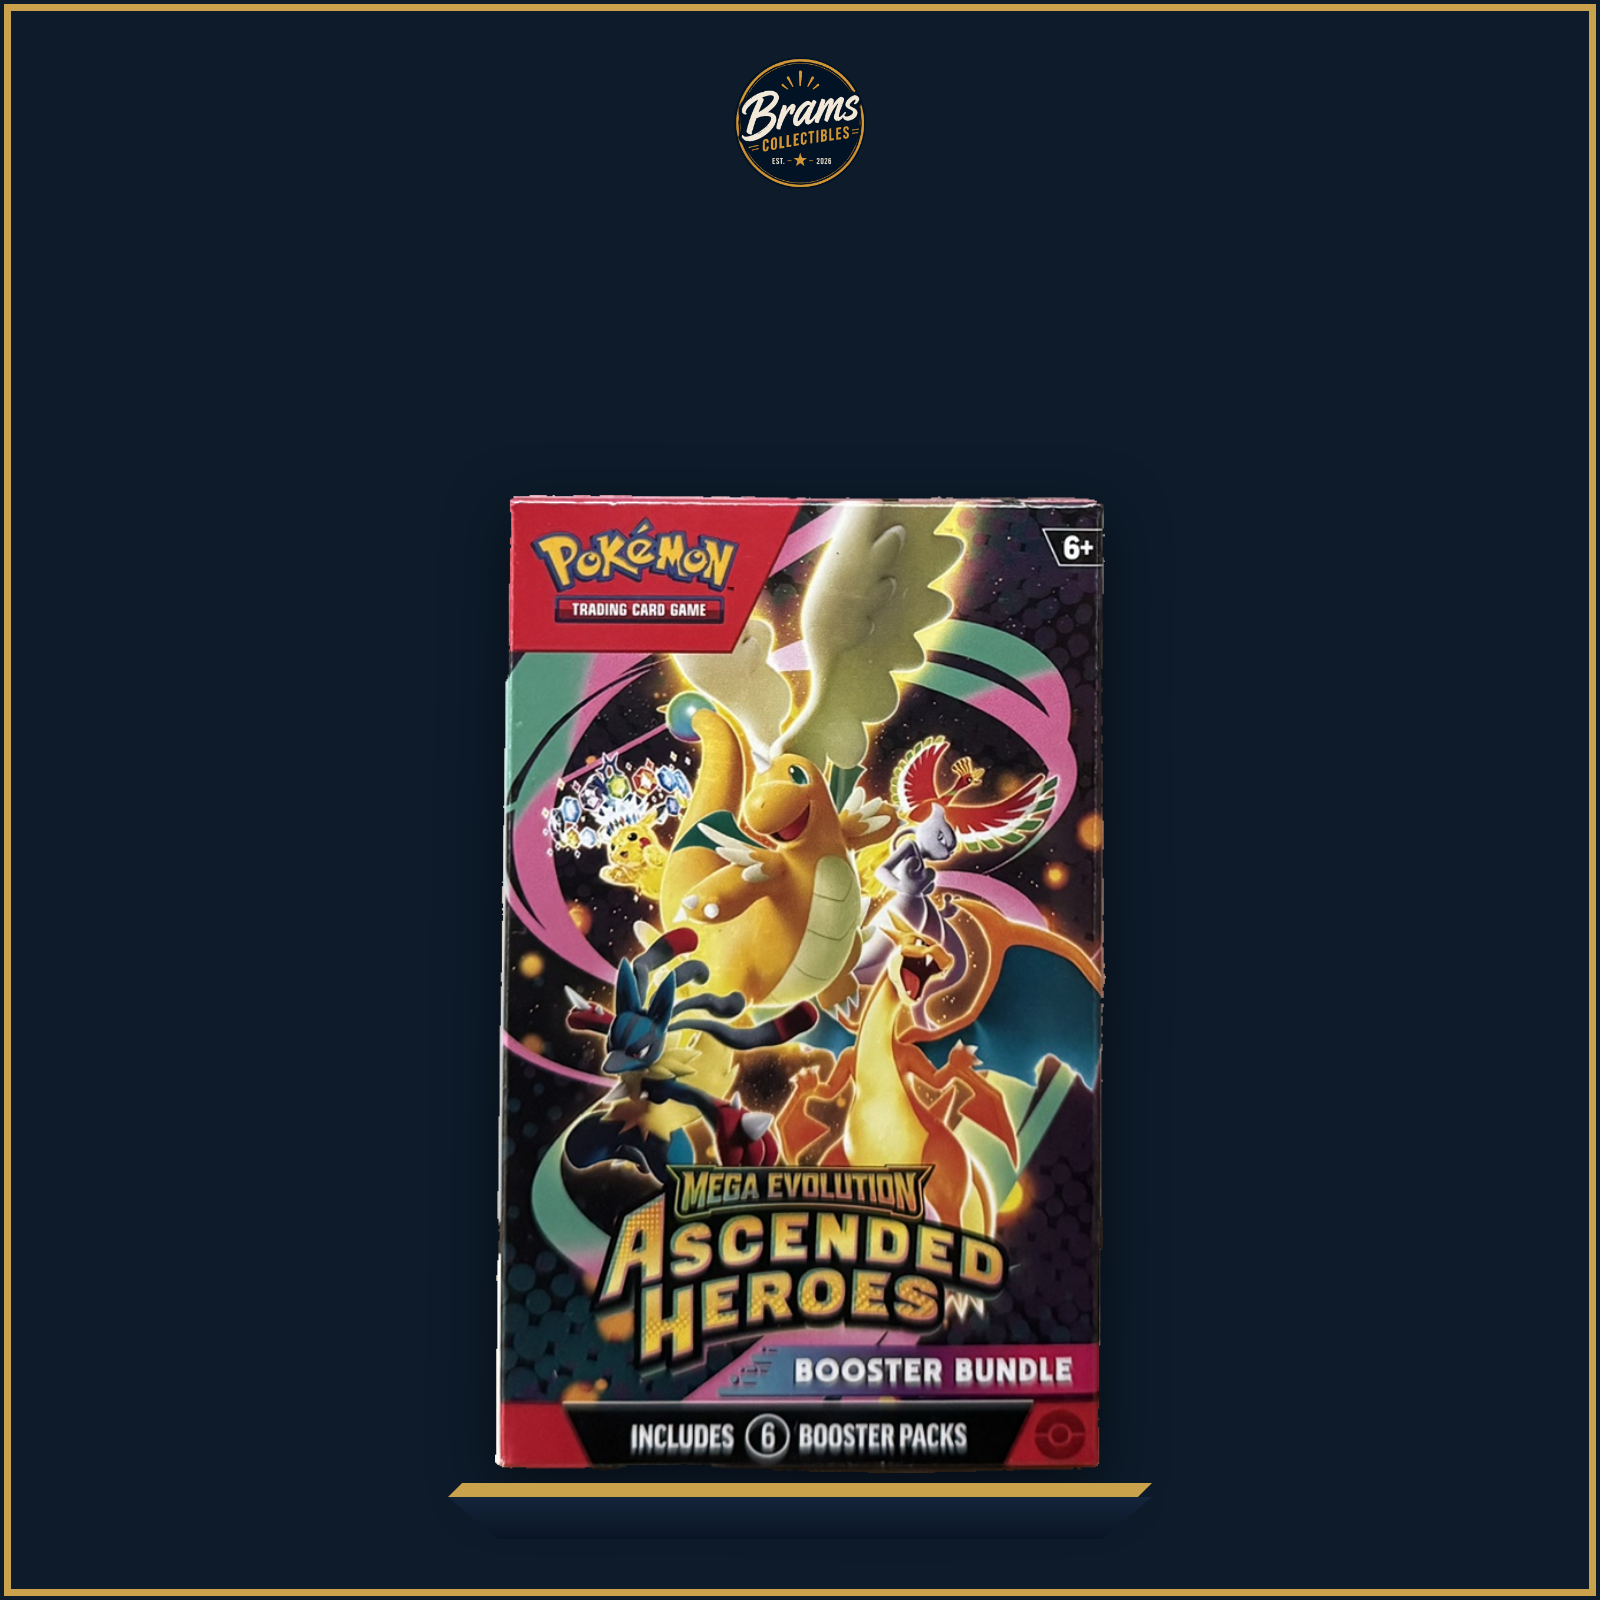
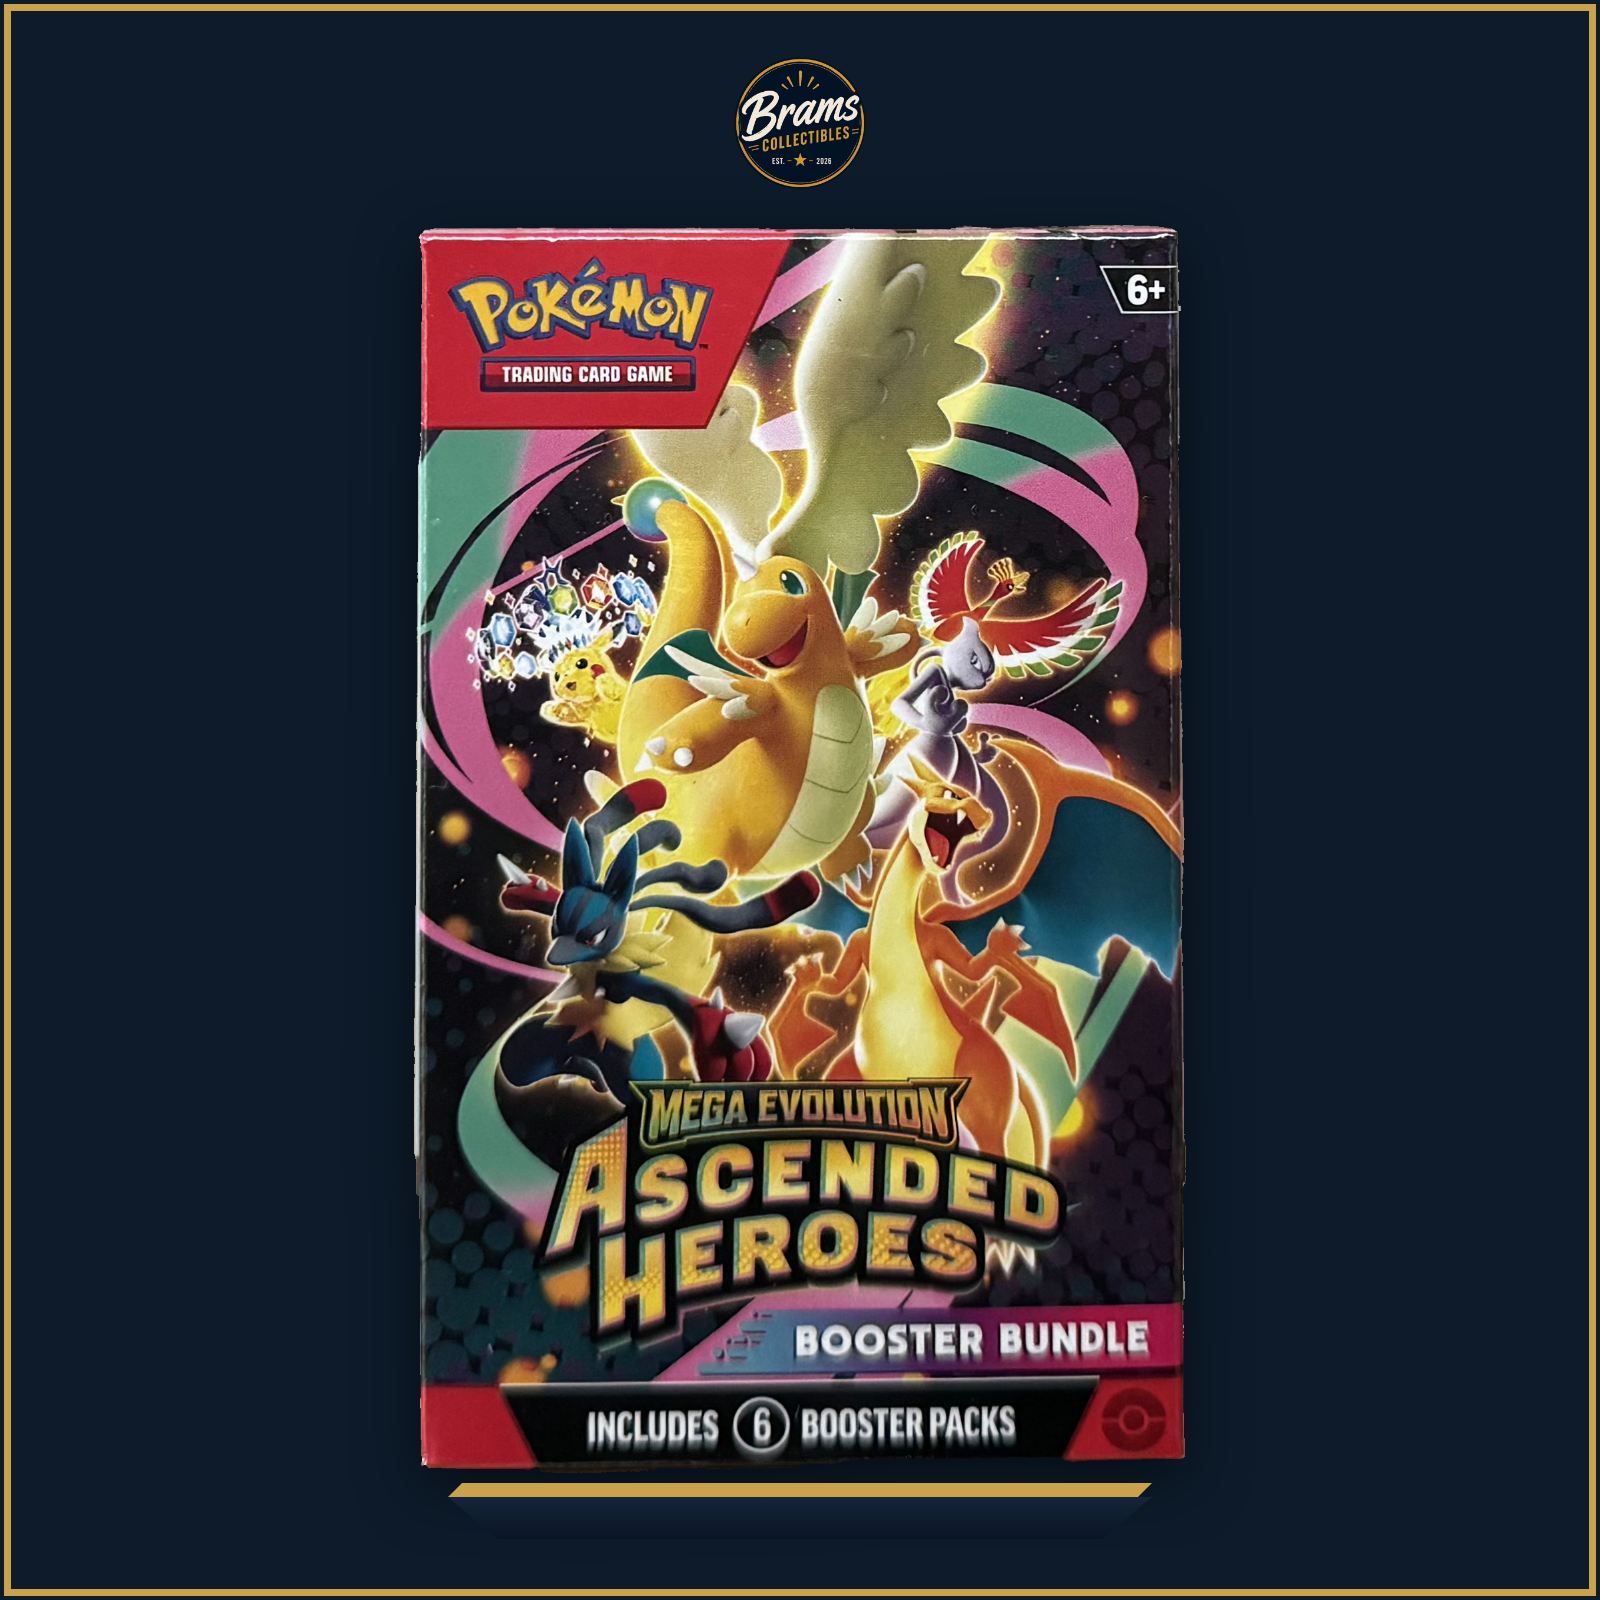
Bijsnijden op vullingsgraad in plaats van een vaste marge
Mijn bijsnede op zes procent marge was te krap. rembg heeft achtergrond nodig
om te zien wat het product is; snijd je er strak omheen, dan weet hij het niet
meer. Het masker van het staande 151-display viel uit elkaar: 35 procent
gevuld, en wat er overbleef was een schuin afgeknipt bovenstuk. Daarna sneed
de nieuwe tafelregel daar ook nog de onderkant af, want een kapot masker wordt
vanzelf ergens breder. Twee reparaties die elkaar versterkten tot iets veel
ergers dan het probleem dat ik oploste.

Nu snijdt kader() tot het product ongeveer 55 procent van het kader vult.
Genoeg lucht voor rembg, en toch veel meer pixels dan de hele kamer meenemen.

Gemeten op diezelfde foto: 1090x1864 en 94 procent gevuld, tegen 952x1635 bij
de oorspronkelijke versie en 988x788 bij de kapotte poging. De tafelregel
houdt zich nu stil bij een staande doos.

Let op: de beeldbestanden in deze commit zijn een tussenstand. Een deel komt
uit de kapotte draai en wordt overschreven zodra de reeks opnieuw is gelopen.

Claude-Session: https://claude.ai/code/session_01WAr9BuuVNs3MhH58LKB4bC

diff --git a/brams-collectibles/sjablonen/nieuwefotos.py b/brams-collectibles/sjablonen/nieuwefotos.py
@@ -55,7 +55,7 @@ NIEUW = HIER / 'fotos' / 'nieuw'
 BRON = HIER / 'fotos'
 MAX = 3000        # na het bijsnijden; het eindkader is 1600
 RUW = 1100        # waarop we zoeken waar het product staat
-MARGE = 0.06      # ruimte om het product heen, als deel van de lange zijde
+DEEL = 0.55       # hoeveel van het kader het product mag vullen na bijsnijden
 
 MAPPEN = {
     '151 Booster Bundle Display (10)': 'BC-151-BNDD',
@@ -95,10 +95,16 @@ def kader(im):
         return None
     ys, xs = np.nonzero(m)
     f = im.width / klein.width
-    marge = MARGE * max(im.size)
-    return (max(0, int(xs.min() * f - marge)), max(0, int(ys.min() * f - marge)),
-            min(im.width, int(xs.max() * f + marge)),
-            min(im.height, int(ys.max() * f + marge)))
+    x0, x1 = xs.min() * f, xs.max() * f
+    y0, y1 = ys.min() * f, ys.max() * f
+    # Zoveel lucht eromheen dat het product DEEL van het kader vult. Te krap
+    # bijsnijden werkt averechts: rembg heeft achtergrond nodig om het product
+    # van te onderscheiden. Bij zes procent marge viel het masker van het
+    # staande 151-display uit elkaar — 35 procent gevuld, en wat er overbleef
+    # was een schuin afgesneden bovenstuk.
+    marge = (max(x1 - x0, y1 - y0) / DEEL - max(x1 - x0, y1 - y0)) / 2
+    return (max(0, int(x0 - marge)), max(0, int(y0 - marge)),
+            min(im.width, int(x1 + marge)), min(im.height, int(y1 + marge)))
 
 
 def draai(*args):
